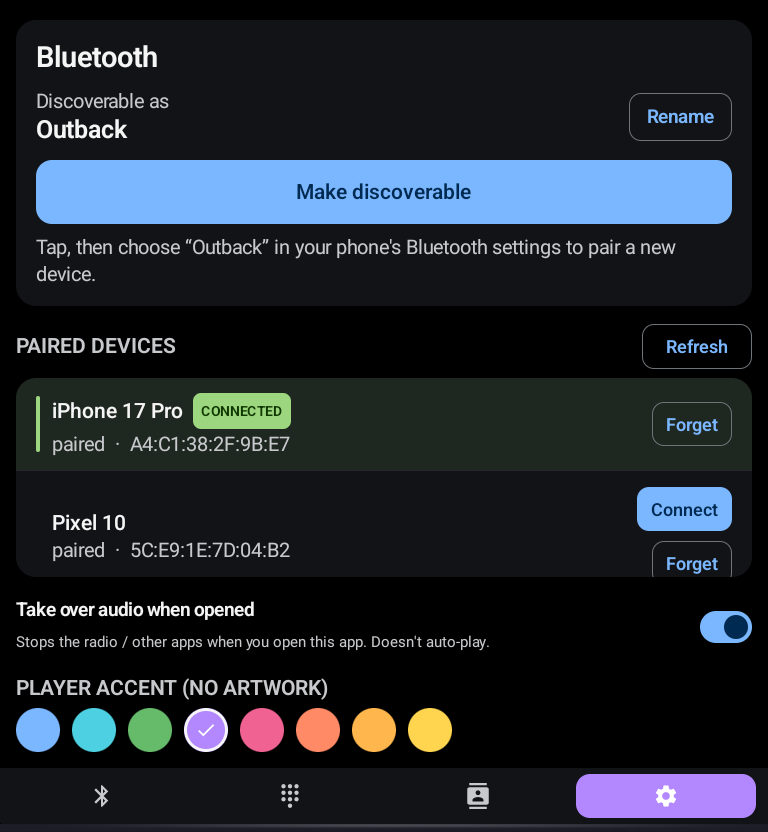
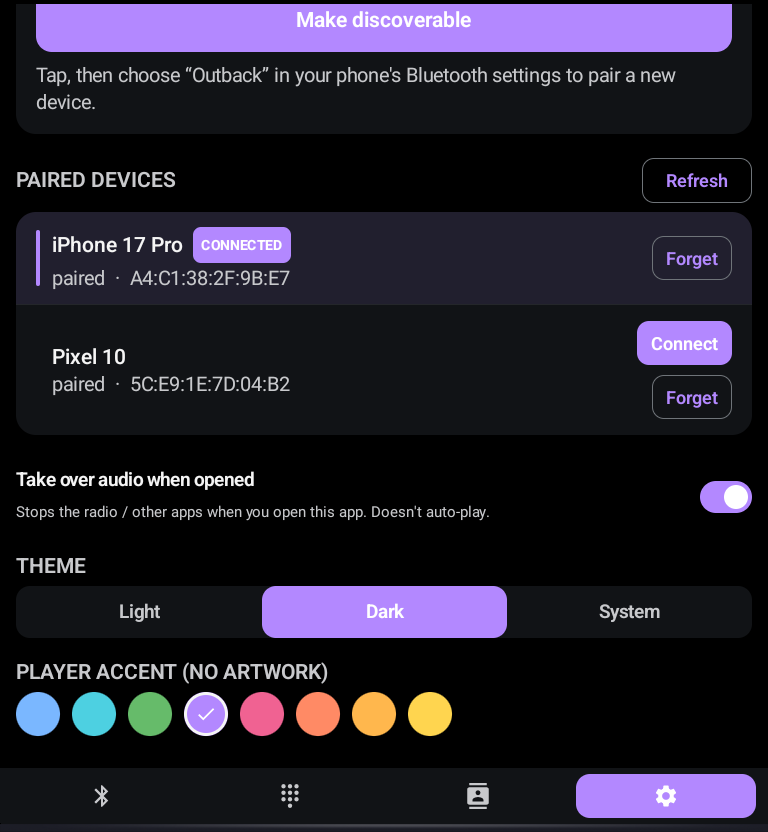
Update screenshots: accent-driven settings + light/dark theme
Refresh the settings/pairing screenshot to show the accent-colored controls
and the new Theme picker, and add a light-mode shot. README now shows the
settings pane in both dark and light. Device names/addresses are placeholders.

diff --git a/README.md b/README.md
@@ -9,18 +9,23 @@ apps rather than replacing them.
 
 ## Screenshots
 
-<p align="center"><img src="screenshots/now_playing.png" width="320" alt="Now Playing"></p>
+<p align="center"><img src="screenshots/now_playing.png" width="300" alt="Now Playing"></p>
 
 <p align="center">
-  <img src="screenshots/bluetooth.png" width="250" alt="Bluetooth / pairing">
+  <img src="screenshots/bluetooth.png" width="240" alt="Settings / pairing — dark">
   &nbsp;
-  <img src="screenshots/dialer.png" width="250" alt="Dialer">
-  &nbsp;
-  <img src="screenshots/contacts.png" width="250" alt="Contacts">
+  <img src="screenshots/settings_light.png" width="240" alt="Settings / pairing — light">
 </p>
 
-<sub>Now Playing (no-art accent fallback shown), the Bluetooth/pairing pane, the dialer, and contacts.
-Device names and addresses are placeholders.</sub>
+<p align="center">
+  <img src="screenshots/dialer.png" width="240" alt="Dialer">
+  &nbsp;
+  <img src="screenshots/contacts.png" width="240" alt="Contacts">
+</p>
+
+<sub>Now Playing (no-art accent fallback shown), the settings/pairing pane in dark and light themes —
+the chosen accent drives every control, and the theme is Light / Dark / System — then the dialer and
+contacts. Device names and addresses are placeholders.</sub>
 
 ## Why this exists
 